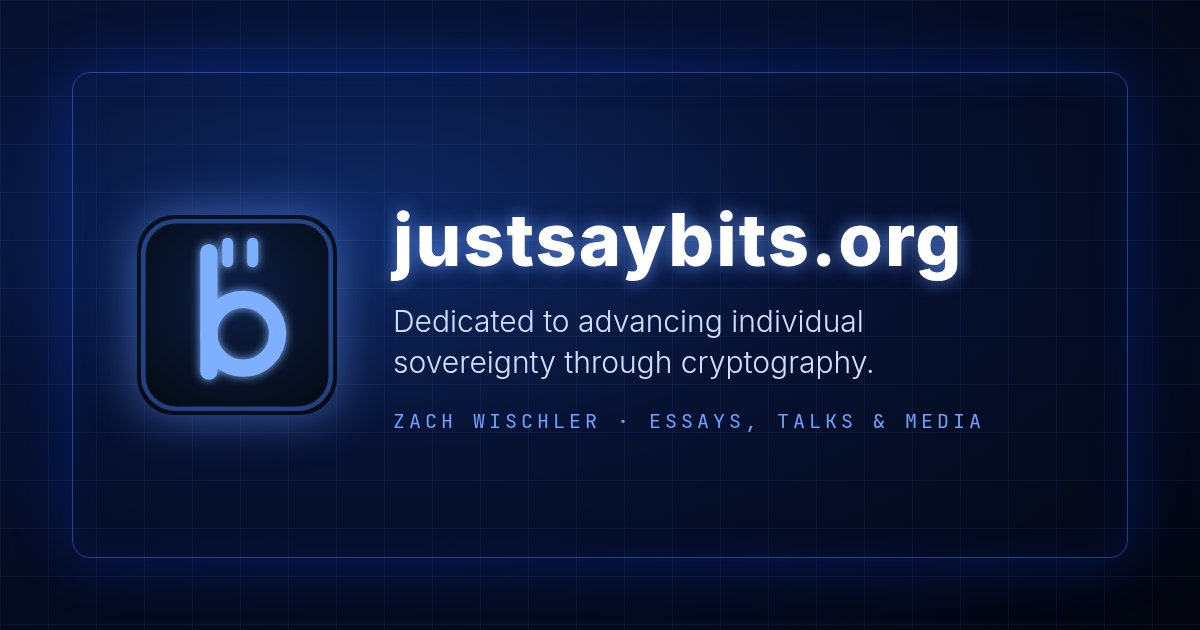
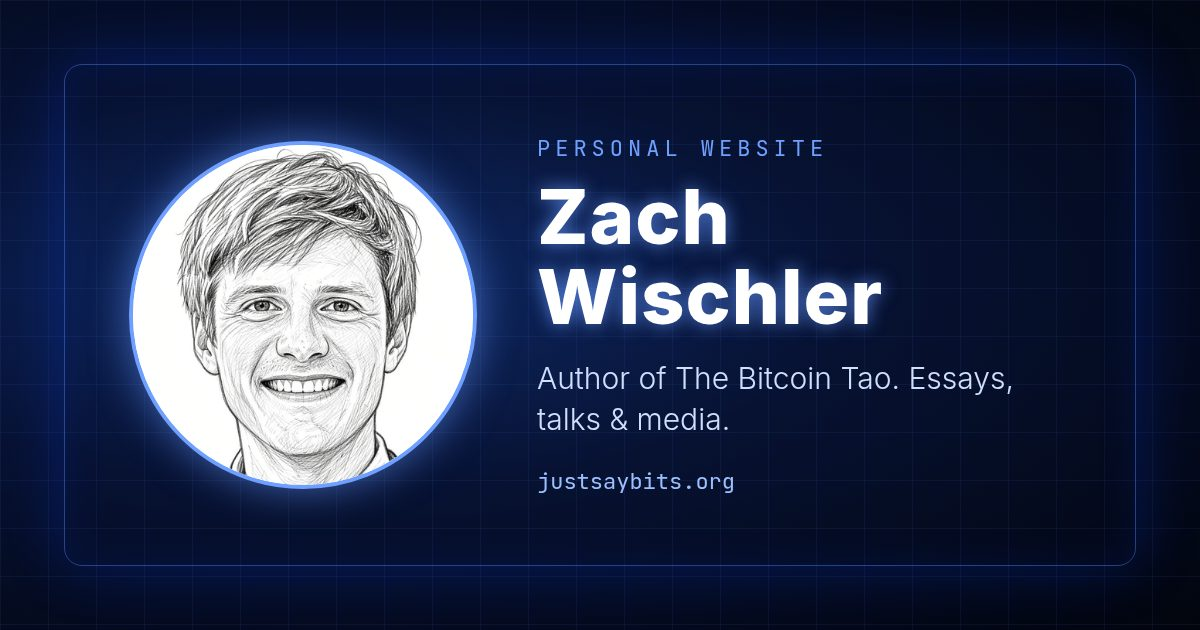
feat(seo): feature portrait in link preview and describe the personal website

diff --git a/index.html b/index.html
@@ -8,22 +8,22 @@
     <link rel="icon" href="/icon-192.png" type="image/png" sizes="192x192" />
     <link rel="apple-touch-icon" href="/apple-touch-icon.png" />
     <meta name="theme-color" content="#050a14" />
-    <meta name="description" content="Dedicated to advancing individual sovereignty through cryptography. Essays, talks and media from Zach Wischler, author of The Bitcoin Tao." />
+    <meta name="description" content="The personal website of Zach Wischler, author of The Bitcoin Tao. Essays, talks and media, dedicated to advancing individual sovereignty through cryptography." />
     <link rel="canonical" href="https://justsaybits.org/" />
     <meta property="og:type" content="website" />
     <meta property="og:site_name" content="justsaybits.org" />
-    <meta property="og:title" content="justsaybits.org | Zach Wischler" />
-    <meta property="og:description" content="Dedicated to advancing individual sovereignty through cryptography. Essays, talks and media from Zach Wischler, author of The Bitcoin Tao." />
+    <meta property="og:title" content="Zach Wischler | Personal Website" />
+    <meta property="og:description" content="The personal website of Zach Wischler, author of The Bitcoin Tao. Essays, talks and media, dedicated to advancing individual sovereignty through cryptography." />
     <meta property="og:url" content="https://justsaybits.org/" />
     <meta property="og:image" content="https://justsaybits.org/og-image.jpg" />
     <meta property="og:image:width" content="1200" />
     <meta property="og:image:height" content="630" />
-    <meta property="og:image:alt" content="justsaybits.org: Dedicated to advancing individual sovereignty through cryptography." />
+    <meta property="og:image:alt" content="Pencil sketch portrait of Zach Wischler beside the text: Personal website, Zach Wischler, author of The Bitcoin Tao." />
     <meta name="twitter:card" content="summary_large_image" />
     <meta name="twitter:site" content="@btcbap" />
     <meta name="twitter:creator" content="@btcbap" />
-    <meta name="twitter:title" content="justsaybits.org | Zach Wischler" />
-    <meta name="twitter:description" content="Dedicated to advancing individual sovereignty through cryptography. Essays, talks and media from Zach Wischler, author of The Bitcoin Tao." />
+    <meta name="twitter:title" content="Zach Wischler | Personal Website" />
+    <meta name="twitter:description" content="The personal website of Zach Wischler, author of The Bitcoin Tao. Essays, talks and media, dedicated to advancing individual sovereignty through cryptography." />
     <meta name="twitter:image" content="https://justsaybits.org/og-image.jpg" />
     <script src="https://cdn.tailwindcss.com"></script>
     <link href="https://fonts.googleapis.com/css2?family=Inter:wght@300;400;600&family=JetBrains+Mono:wght@400;700&display=swap" rel="stylesheet">
